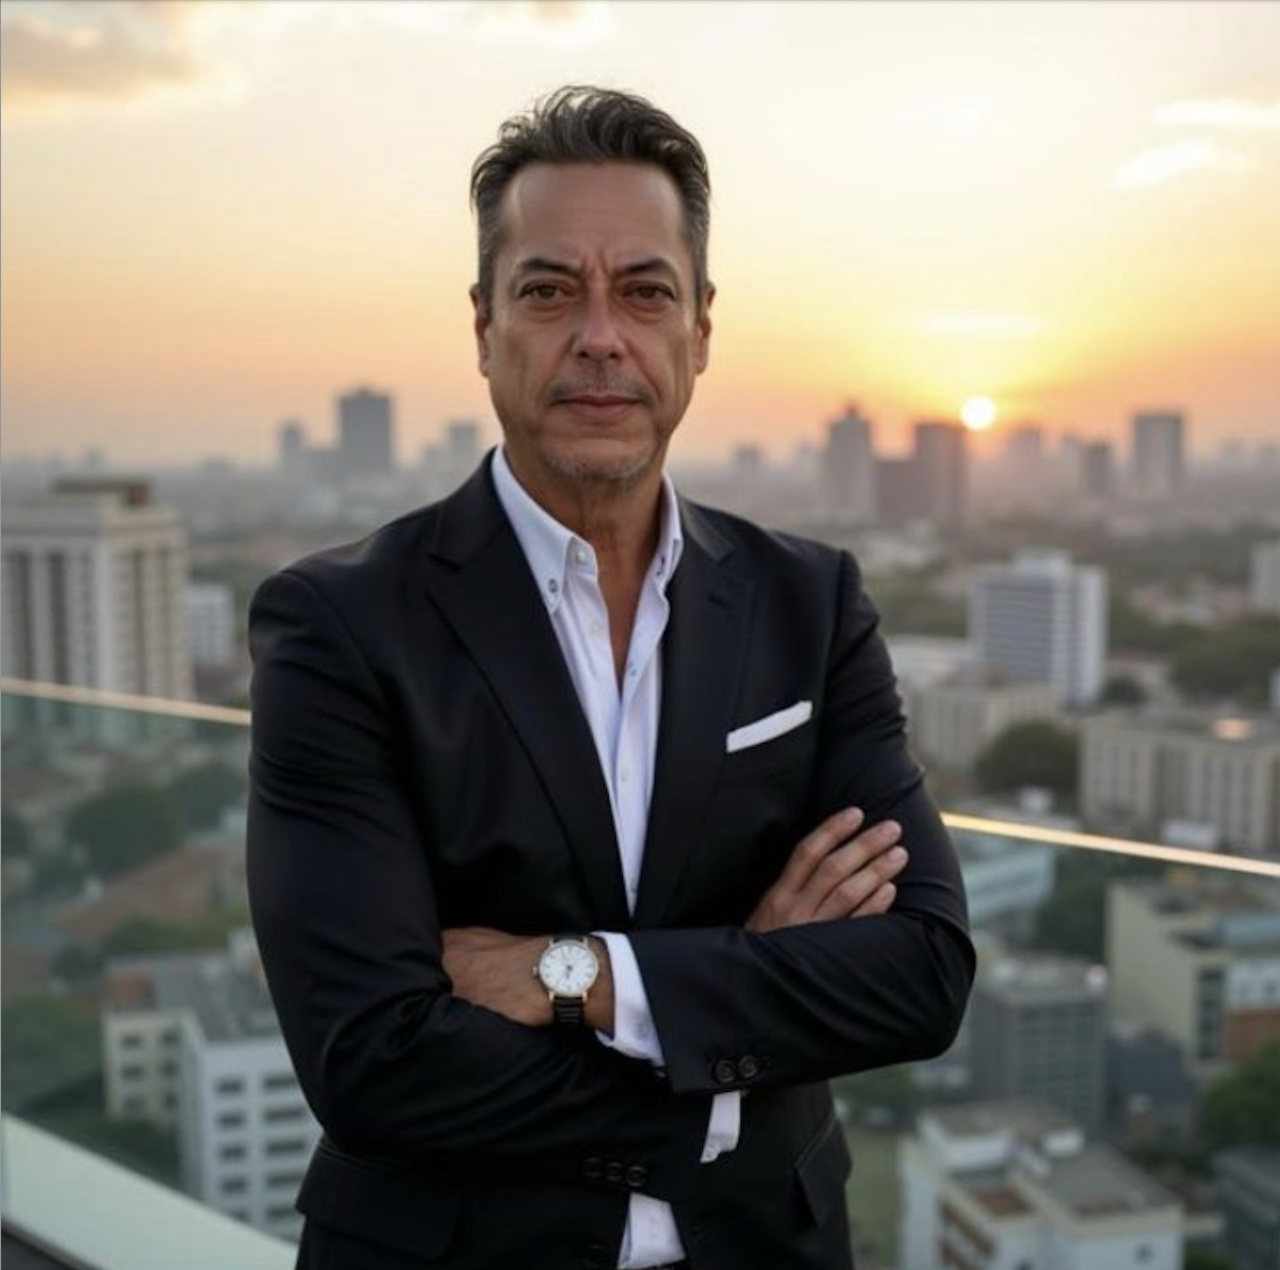
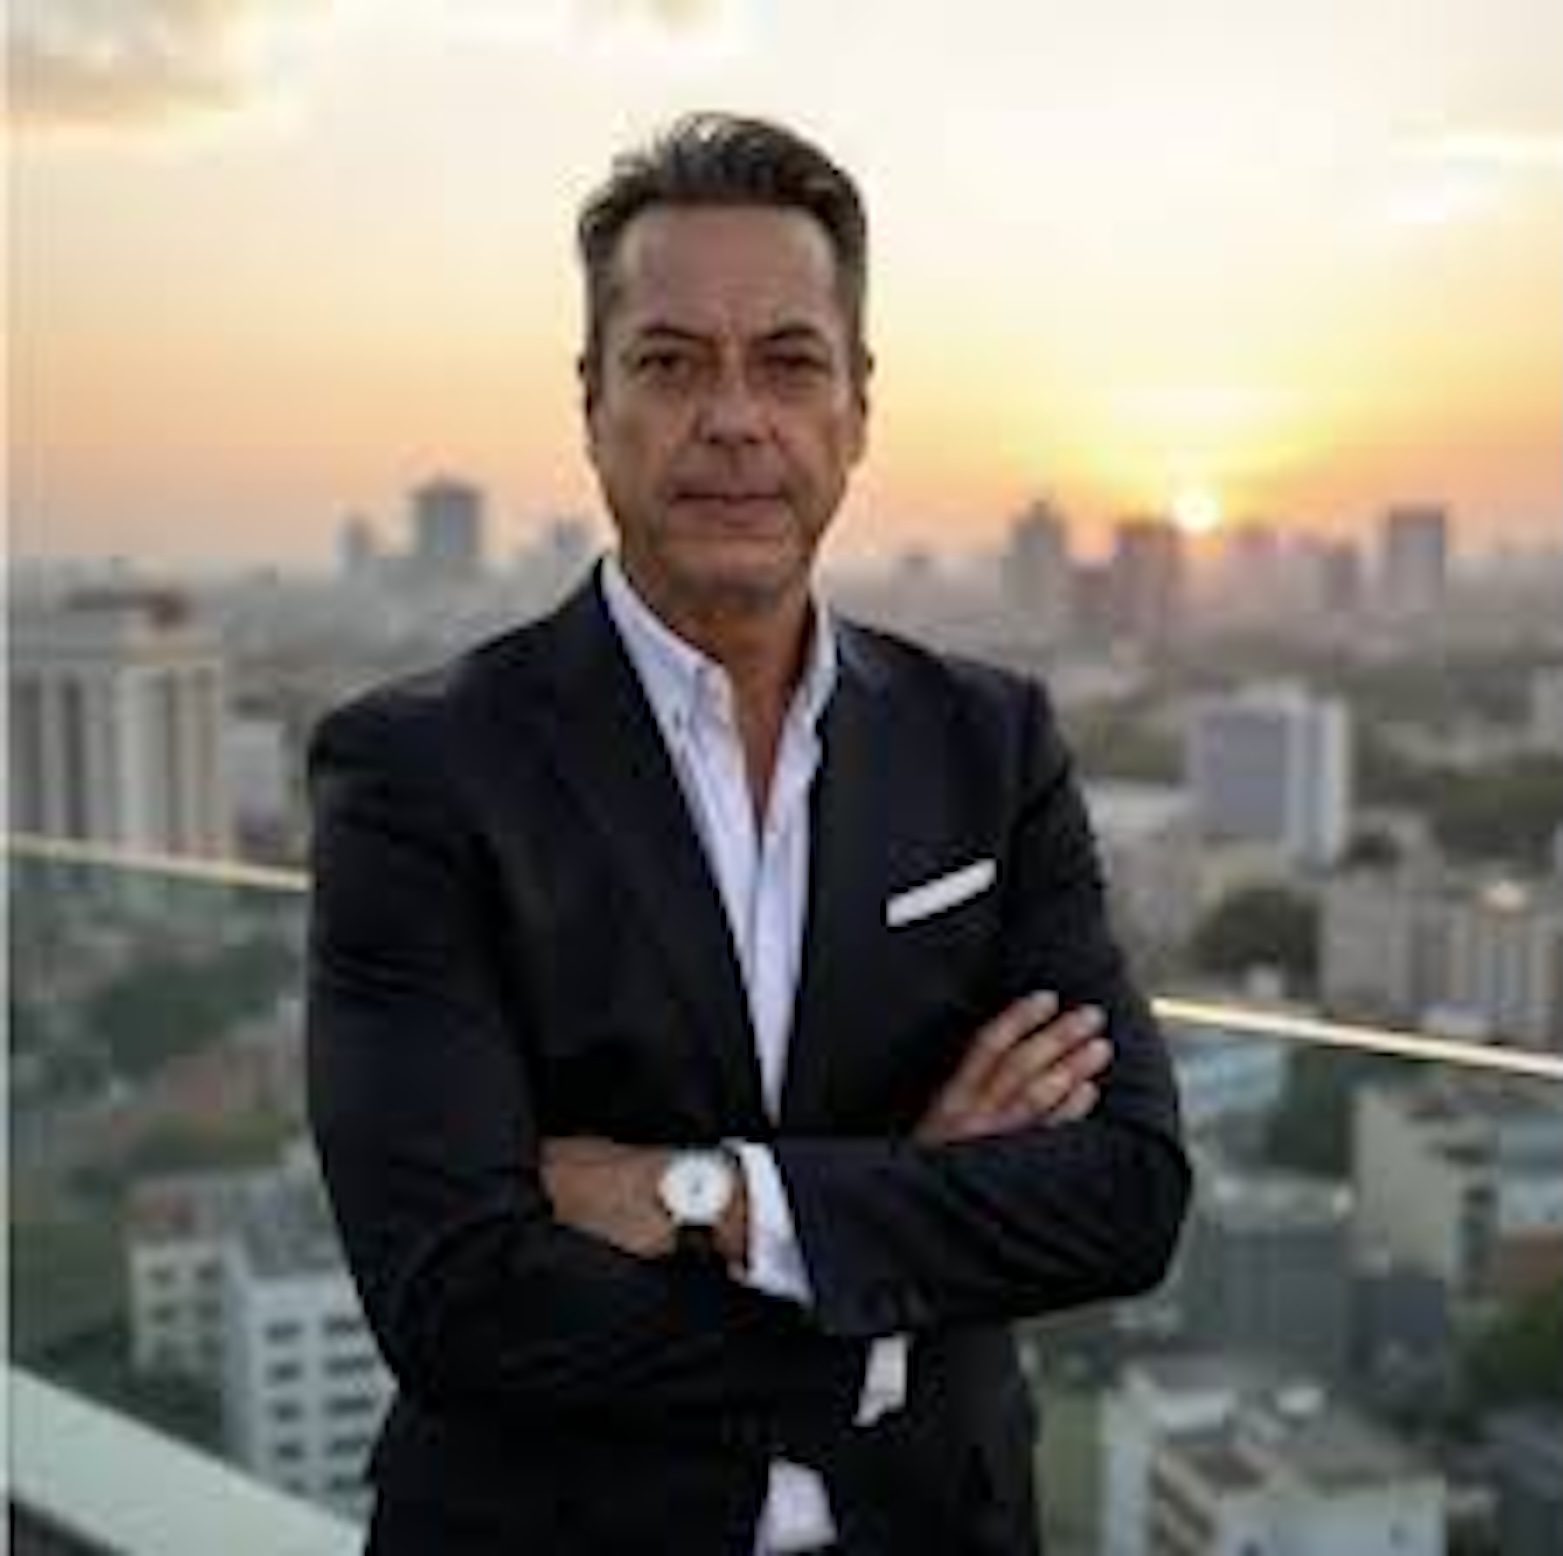
Fix image file extensions for Cozbi and Alfonso

diff --git a/src/pages/AgentDetail.tsx b/src/pages/AgentDetail.tsx
@@ -79,7 +79,7 @@ const AgentDetail = () => {
      name: "Alfonso Puente",
      title: "Sales Manager & Commercial Real Estate Expert",
      specialization: "Real Estate Developments & Market Analysis",
-     image: "/alfonso-puente.jpg.png",
+     image: "/alfonso-puente.jpg",
      phone: "+52 664 188 8681",
      email: "[email redacted]",
      yearsExperience: 18,
@@ -170,7 +170,7 @@ const AgentDetail = () => {
       name: "Cozbi Sanchez",
       title: "Residential Specialist",
       specialization: "Family Homes & Condos",
-      image: "/cozbi-sanchez.jpg.png",
+      image: "/cozbi-sanchez.png",
       phone: "+52 624 118 9512",
       email: "[email redacted]",
       yearsExperience: 8,

diff --git a/src/pages/Team.tsx b/src/pages/Team.tsx
@@ -67,7 +67,7 @@ const agents = [
     name: "Alfonso Puente",
     title: "Sales Manager & Commercial Real Estate Expert",
     specialization: "Real Estate Developments & Market Analysis",
-    image: "/alfonso-puente.jpg.png",
+    image: "/alfonso-puente.jpg",
     phone: "+52 664 188 8681",
     email: "[email redacted]",
     yearsExperience: 18,
@@ -158,7 +158,7 @@ const agents = [
     name: "Cozbi Sanchez",
     title: "Residential Specialist",
     specialization: "Family Homes & Condos",
-    image: "/cozbi-sanchez.jpg.png",
+    image: "/cozbi-sanchez.png",
     phone: "+52 624 118 9512",
     email: "[email redacted]",
     yearsExperience: 8,

diff --git a/src/pages/About.tsx b/src/pages/About.tsx
@@ -38,7 +38,7 @@ const About = () => {
       id: 3,
       name: "Alfonso Puente",
       title: "Sales Manager & Commercial Real Estate Expert",
-      image: "/alfonso-puente.jpg.png",
+      image: "/alfonso-puente.jpg",
     },
     {
       id: 8,

diff --git a/src/pages/AlfonsoLandingPage.tsx b/src/pages/AlfonsoLandingPage.tsx
@@ -59,7 +59,7 @@ const agent = {
   name: "Alfonso Puente",   // ⭐ CHANGE: Full name
   title: "Sales Manager & Commercial Real Estate Expert",  // ⭐ CHANGE
   specialization: "Real Estate Developments & Market Analysis",  // ⭐ CHANGE
-  image: "/alfonso-puente.jpg.png",  // ⭐ CHANGE
+  image: "/alfonso-puente.jpg",  // ⭐ CHANGE
   phone: "+52 664 188 8681",     // ⭐ CHANGE
   email: "[email redacted]",  // ⭐ CHANGE
   yearsExperience: 18,      // ⭐ CHANGE

diff --git a/src/pages/CozbiLandingPage.tsx b/src/pages/CozbiLandingPage.tsx
@@ -59,7 +59,7 @@ const agent = {
   name: "Cozbi Sanchez",
   title: "Residential Specialist",
   specialization: "Family Homes & Condos",
-  image: "/cozbi-sanchez.jpg.png",
+  image: "/cozbi-sanchez.png",
   phone: "+52 624 118 9512",
   email: "[email redacted]",
   yearsExperience: 8,

diff --git a/src/pages/Index.tsx b/src/pages/Index.tsx
@@ -68,7 +68,7 @@ const Index = () => {
       slug: "alfonso",
       name: "Alfonso Puente",
       title: "Sales Manager & Commercial Real Estate Expert",
-      image: "/alfonso-puente.jpg.png",
+      image: "/alfonso-puente.jpg",
     },
     {
       id: 8,